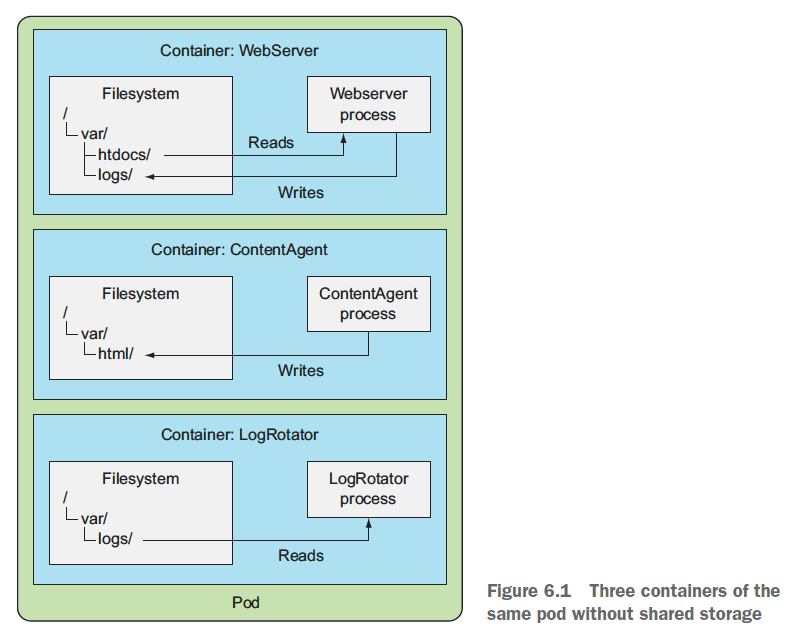
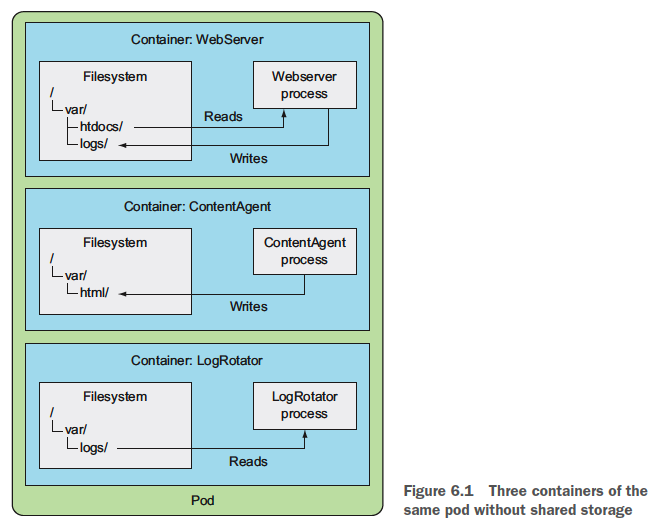
chapter 06 볼륨

diff --git a/chapter06.md b/chapter06.md
@@ -14,9 +14,274 @@
 
 - 각 컨테이너는 잘 정의된 단일 책임을 갖고 있지만 각각 컨테이너 자체만으로는 큰 쓸모가 없다.
 
-<img src="resources/images/6-1.png" width="797" height="638" alt="공유 스토리지가 없는 동일 파드의 컨테이너 세 개"/>
+<img src="resources/images/6-1.png" width="660" height="531" alt="공유 스토리지가 없는 동일 파드의 컨테이너 세 개"/>
 
 - 볼륨 두 개를 파드에 추가하고 세 개의 컨테이너 내부의 적절한 경로에 마운트 한다면 더 나은 시스템이 생성된다.
 
-<img src="resources/images/6-2.png" width="832" height="630" alt="공유 스토리지가 없는 동일 파드의 컨테이너 세 개"/>
+<img src="resources/images/6-2.png" width="691" height="528" alt="공유 스토리지가 없는 동일 파드의 컨테이너 세 개"/>
 
+- 쿠버네티스는 볼륨을 초기화하며 외부 소스의 내용을 채우거나 기존에 존재하는 디렉터리를 마운트 할 수 있다.
+- 볼륨을 채우거나 마운트하는 프로세스는 파드의 컨테이너가 시작되기 전에 수행한다.
+
+### 6.1.2 사용 가능한 볼륨 유형 소개
+
+- 사용 가능한 볼륨 유형 목록
+    - emptyDir: 일시적인 데이터를 저장하는 데 사용되는 간단한 빈 디렉터리
+    - hostPath: 워커 노드의 파일스스템을 파드의 디렉터리로 마운트하는 데 사용
+    - gitRepo: 깃 리포지터리의 콘텐츠를 체크아웃해 초기화한 볼륨
+    - nfs: NFS 공유를 파드에 마운트한다
+    - gcePersistentDisk(Google Compute Engine Persistent Disk), awsElasticBlockStore(Amazon Web Service Elastic Block Store Volume), azureDisk(Microsoft Azure Disk Volume): 클라우드 제공자 전용 스토리지
+    - cinder, cephfs, iscsi, flocker, glusterfs, quobyte, rbd, flexVolume, vsphereVolume,photonPersistentDisk, scaleIO: 다른 유형의 네트워크 스토리지
+    - configMap, secret, downwardAPI: 쿠버네티스 리소스나 클러스터 정보를 파드에 노출하는 데 사용되는 특별한 유형의 볼륨
+    - persistentVolumeClaim: 사전에 혹은 동적으로 프로비저닝된 퍼시스턴트 스토리지를 사용하는 방법
+- 특수한 유형의 볼륨(secret, downwardAPI, configMap)은 데이터를 저장하는데 사용되지 않고 쿠버네티스 메타데이터를 파드에 실행중인 애플리케이션에 노출하는 데 사용됨
+
+## 6.2 볼륨을 사용한 컨테이너 간 데이터 공유
+
+### 6.2.1 emptyDir 볼륨 사용
+
+- 빈 디렉터리로 시작
+- 파드에 실행중인 애플리케이션은 어떤 파일이든 볼륨에 쓸 수 있다.
+- 볼륨의 라이프사이클이 파드에 묶여 있으므로 파드가 삭제되면 볼륨의 콘텐츠는 사라진다.
+- 동일 파드에서 실행중인 컨테이너 간 파일을 공유할 때 유용하다.
+
+- (여기서 부터 예제)
+
+- emptyDir 은 파드를 호스팅하는 워크 노드의 실제 디스크에 생성되므로 노드 디스크가 어떤 유형인지에 따라 성능이 결정된다.
+- 메모리를 사용하는 tmpfs 파일시스템으로 생성하도록 하려면 아래와 같이 `emptyDir` 의 `medium` 을 `Memory` 로 지정한다.
+
+```yaml
+  volumes:
+  - name: html
+    emptyDir:
+      medium: Memory
+```
+
+### 6.2.2 깃 리퍼지터리를 볼륨으로 사용하기
+
+- 현재는 deprecated 됐다. (https://kubernetes.io/docs/concepts/storage/volumes/#gitrepo)
+- gitRepo 볼륨은 기본적으로 emptyDir 볼륨이며 파드가 시작되면 깃 리포지터리를 복제하고 특정 리비전을 체크아웃해 데이터로 채운다.
+
+<img src="resources/images/6-3.png" width="728" height="355" alt="gitRepo 볼륨은 시작 시점에 깃 리포지터리의 콘텐츠로 채워진 emptyDir 볼륨이다"/>
+
+- gitRepo 볼륨이 생성된 후에는 참조하는 리포지터리와 동기화하지 않는다.
+- 리플리케이션 컨트롤러가 파드를 관리하는 경우 파드를 삭제하면 새 파드가 생성되고 이 파드의 볼륨은 최신 커밋을 포함한다.
+
+- (여기서 부터 예제)
+
+- 사이드카 컨테이너 소개
+    - 깃 동기화 프로세스가 Nginx 웹 서버와 동일 컨테이너에서 실행되면 안되며 두 번째 컨테이너인 사이드카(sidecar) 컨테이너에서 실행돼야 한다.
+    - 사이드카 컨테이너는 파드의 주 컨테이너 동작을 보완한다.
+- 프라이빗 깃 리포지터리로 gitRepo 볼륨 사용하기
+    - 프라이빗 깃 리포지터리로 gitRepo 볼륨을 사용할 수 없기 때문에 프라이빗 깃 리포지터리를 사용하기 위해선 사이드카 컨테이너를 사용해야 한다.
+
+## 6.3 워커 노드 파일시스템의 파일 접근
+
+- 대부분의 파드는 호스트 노드를 인식하지 못하므로 노드의 파일시스템에 있는 어떤 파일에도 접근하면 안 된다.
+- 특정 시스템 레벨의 파드(보통 데몬셋으로 관리되는 것)는 노드의 파일을 읽거나 파일시스템을 통해 노드 디바이스를 접근하기 위해 노드의 파일 시스템을 사용한다.
+- 쿠버네티스는 hostPath 볼륨으로 가능하게 한다.
+
+### 6.3.1 hostPath 볼륨 소개
+
+- hostPath 볼륨은 노드 파일시스템의 특정 파일이나 디렉터리를 가리킨다.
+- 동일 노드에 실행 중인 파드가 hostPath 볼륨의 동일 경로를 사용 중이면 동일한 파일이 표시된다.
+
+<img src="resources/images/6-4.png" width="616" height="377" alt="gitRepo 볼륨은 시작 시점에 깃 리포지터리의 콘텐츠로 채워진 emptyDir 볼륨이다"/>
+
+- hostPath 볼륨은 파드가 종료되어도 콘텐츠는 삭제되지 않는다.
+- hostPath 볼륨은 파드가 어떤 노드에 스케줄링되느냐에 따라 민감하기 때문에 일반적인 파드에 사용하는 것은 좋은 생각이 아니다.
+
+### 6.3.2 hostPath 볼륨을 사용하는 시스템 파드 검사하기
+
+<img src="resources/images/6-3-2-1.png" width="527" height="194" alt="시스템 파드"/>
+
+```shell script
+$ kubectl describe po etcd-docker-desktop -n kube-system
+```
+
+<img src="resources/images/6-3-2-2.png" width="412" height="158" alt="etcd-docker-desktop"/>
+
+- 노드의 시스템 파일에 읽기/쓰기를 하는 경우에만 hostPath 볼륨을 사용한다.
+- 여러 파드에 걸쳐 데이터를 유지하기 위해서는 절대 사용하면 안된다.
+
+## 6.4 퍼시스턴스 스토리지 사용
+
+- 파드가 다른 노드로 재 스캐줄링된 경우에도 동일한 데이터를 사용해야 한다면 어떤 노드에서도 접근이 필요하기 때문에 NAS(Network-Attached Storage) 유형에 저장돼야 한다.
+
+### 6.4.1 GCE 퍼시스턴트 디스크를 파드 볼륨으로 사용하기
+
+<img src="resources/images/6-5.png" width="715" height="260" alt="외부 GCE 퍼시스턴트 디스크를 참조하는 볼륨을 마운트하고 MongoDB 를 실행하는 단일 컨테이너가 있는 파드"/>
+
+```shell script
+$ kubectl create -f mongodb-pod-hostpath.yaml
+```
+
+<img src="resources/images/6-4-1-1.png" width="841" height="181" alt="mongodb-pod-hostpath"/>
+
+<img src="resources/images/6-4-1-2.png" width="840" height="538" alt="mongodb-pod-hostpath"/>
+
+<img src="resources/images/6-4-1-3.png" width="464" height="134" alt="mongodb-pod-hostpath"/>
+
+<img src="resources/images/6-4-1-4.png" width="839" height="604" alt="mongodb-pod-hostpath"/>
+
+### 6.4.2 기반 퍼시스턴스 스토리지로 다른 유형의 볼륨 사용하기
+
+- 예제는 생략
+- 쿠버네티스가 지원하는 각 볼륨 유형별로 필요한 속성의 세부 정보를 보려면 쿠버네티스 API 레퍼런스의 API 정의를 확인하거나 `kubeclt explain` 을 통해 정보를 찾아봐야 한다.
+- 인프라스트럭처 관련 정보를 파드 정의에 포함하면 동일한 파드 정의를 다른 클러스터에서는 사용할 수 없다.
+- 볼륨을 이런 방식으로 사용하는 것이 파드에 퍼시스턴트 스토리지를 연결하는 최적의 방법이 아닌 이유
+
+## 6.5 기반 스토리지 기술과 파드 분리
+
+- NFS 기반 볼륨을 생성하려면 개발자는 NFS 익스포트가 위치하는 실제 서버를 알아야 한다.
+- 이는 애플리케이션과 개발자로부터 실제 인프라스트럭처를 숨긴다는 쿠버네티스의 기본 아이디어에 반한다.
+- 개발자가 애플리케이션을 위해 일정량의 퍼시스턴트 스토리지를 필요로 하면 쿠버네티스에 요청할 수 있어야 하고, 동일한 방식으로 파드 생성 시 CPU, 메모리와 다른 리소스를 요청할 수 있어야 한다.
+
+### 6.5.1 퍼시스턴트 볼륨과 퍼시스턴트 볼륨클레임 소개
+
+- 인프라스트럭처의 세부 사항을 처리하지 않고 애플리케이션이 쿠버네티스 클러스터에 스토리지를 요청할 수 있도록 하기 위해 새로 도입된 리소스
+
+<img src="resources/images/6-6.png" width="681" height="410" alt="클러스터 관리자가 퍼시스턴트 볼륨을 프로비저닝하면 파드는 퍼시스턴트 볼륨클레임을 통해 이를 사용한다"/>
+
+- 클러스터 관리자가 기반 스토리지를 설정하고 쿠버네티스 API 서버로 퍼시스턴트 볼륨 리소스를 생성해 쿠버네티스에 등록한다.
+- 퍼시스턴트 볼륨이 생성되면 관리자는 크기와 지원 가능한 접근 모드를 지정한다.
+- 클러스터 사용자가 파드에 퍼시스턴트 스토리지를 사용해야 하면 먼저 최소 크기와 필요한 접근 모드를 명시한 퍼시스턴트 볼륨클레임 매니페스트를 생성한다.
+- 그 다음 사용자는 퍼시스턴트 볼륨클레임 매니페스트를 쿠버네티스 API 서버에 게시하고 쿠버네티스는 적절한 퍼시스턴트 볼륨을 찾아 클레임에 볼륨을 바인딩한다.
+- 그 다음 퍼시스턴트 볼륨클레임은 파드 내부의 볼륨 중 하나로 사용될 수 있다.
+- 퍼시스턴트 볼륨클레임의 바인딩을 삭제하기 전까지 다른 사용자는 동일한 퍼시스턴트 볼륨을 사용할 수 없다.
+
+### 6.5.2 퍼시스턴트 볼륨 
+
+```yaml
+apiVersion: v1
+kind: PersistentVolume
+metadata:
+  name: mongodb-pv
+spec:
+  capacity: 
+    storage: 1Gi
+  accessModes:
+    - ReadWriteOnce
+    - ReadOnlyMany
+  persistentVolumeReclaimPolicy: Retain
+  hostPath:
+    path: /tmp/mongodb
+```
+
+```shell script
+$ kubectl create -f mongodb-pv-hostpath.yaml
+```
+
+- 퍼시스턴트 볼륨을 생성할때 관리자가 해야 하는일
+    - 쿠버네티스에게 용량이 얼마가 되는지 단일 노드나 동시에 다수 노드에 읽기나 쓰기가 가능한지 여부를 알려야 한다.
+    - 쿠버네티스에게 퍼시스턴트 볼륨이 해제되면 어떤 동작을 해야 할지 알려야 한다.
+    - 퍼시스턴트 볼륨을 지원하는 실제 스토리지의 유형, 위치, 그 밖의 속성 정보를 지정해야 한다.
+
+<img src="resources/images/6-5-1-1.png" width="753" height="56" alt="kubectl-get-pv"/>
+
+- 퍼시스턴트 볼륨은 특정 네임스페이스에 속하지 않는다.
+- 퍼시스턴트 볼륨은 노드와 같은 클러스터 수준 리소스다.
+
+<img src="resources/images/6-7.png" width="718" height="552" alt="퍼시스턴트 볼륨과 클러스터 노드는 파드나 퍼시스턴트 볼륨클레임과 달리 특정 네임스페이스에 속하지 않는다"/>
+
+### 6.5.3 퍼시스턴트 볼륨클레임 생성을 통한 퍼시스턴트 볼륨 요청
+
+```yaml
+apiVersion: v1
+kind: PersistentVolumeClaim
+metadata:
+  name: mongodb-pvc 
+spec:
+  resources:
+    requests:
+      storage: 1Gi
+  accessModes:
+  - ReadWriteOnce
+  storageClassName: ""
+```
+
+<img src="resources/images/6-5-3-1.png" width="447" height="36" alt="kubectl-create-pvc"/>
+
+- 퍼시스턴트 볼륨클레임이 생성되자마자 쿠버네티스는 적절한 퍼시스턴트 볼륨을 찾고 클레임에 바인딩한다.
+- 퍼시스턴트 볼륨 용량은 퍼시스턴트 볼륨클레임의 요청을 수용할만큼 충분히 커야 한다.
+- 볼륨 접근 모드는 클레임에서 요청한 접근 모드를 포함해야 한다.
+
+<img src="resources/images/6-5-3-2.png" width="573" height="52" alt="kubectl-create-pvc"/>
+
+- 접근 모드
+    - RWO(ReadWriteOnce): 단일 노드만이 읽기/쓰기용으로 볼륨을 마운트할 수 있다.
+    - ROX(ReadOnlyMany): 다수 노드가 읽기용으로 볼륨을 마운트할 수 있다.
+    - RWX(ReadWriteMany): 다수 노드가 일기/쓰기용으로 볼륨을 마운트할 수 있다.
+
+<img src="resources/images/6-5-3-3.png" width="811" height="54" alt="kubectl-create-pvc"/>
+
+- 퍼시스턴트 볼륨은 클러스터 수준의 리소스이므로 특정 네임스페이스에 생성할 수 없다.
+- 퍼시스턴트 볼륨클레임은 특정 네임스페이스에 생성해야만 한다. (번역 누락됨)
+- 퍼시스턴트 볼륨클레임은 동일한 네임스페이스에 있는 파드만 사용할 수 있다.
+
+### 6.5.4 파드에서 퍼시스턴트 볼륨클레임 사용하기
+
+- 볼륨을 해제할 때까지 다른 사용자는 동일한 볼륨에 클레임을 할 수 없다.
+
+```yaml
+apiVersion: v1
+kind: Pod
+metadata:
+  name: mongodb 
+spec:
+  containers:
+  - image: mongo
+    name: mongodb
+    volumeMounts:
+    - name: mongodb-data
+      mountPath: /data/db
+    ports:
+    - containerPort: 27017
+      protocol: TCP
+  volumes:
+  - name: mongodb-data
+    persistentVolumeClaim:
+      claimName: mongodb-pvc
+```
+
+<img src="resources/images/6-5-4-1.png" width="840" height="502" alt="mongodb-pod-pvc"/>
+
+### 6.5.5 퍼시스턴트 볼륨과 퍼시스턴트 볼륨클레임 사용의 장점 이해하기
+
+<img src="resources/images/6-8.png" width="710" height="625" alt="GCE 퍼시스턴트 디스크를 직접 사용하는 경우와 PVC PV 를 사용하는 경우"/>
+
+- 개발자는 기저에 사용된 실제 스토리지 기술을 알 필요가 없다.
+- 파드와 클레임 매니페스트는 인프라스트럭처와 관련된 어떤 것도 참조하지 않으므로 다른 쿠버네티스 클러스터에서도 사용할 수 있다.
+
+### 6.5.6 퍼시스턴트 볼륨 
+
+<img src="resources/images/6-5-6-1.png" width="826" height="241" alt="reuse-persistent-volume"/>
+
+- 이미 볼륨을 사용했기 때문에 데이터를 가지고 있으므로 클러스터 관리자가 볼륨을 완전히 비우지 않으면 새로운 클레임에 바인딩할 수 없다.
+- 클러스터 관리자가 볼륨을 비우지 않았다면 동일한 퍼시스턴트 볼륨을 사용하는 새 파드는 다른 네임스페이스에서 클레임과 파드가 생성됐다고 할지라도 이전 파드가 저장한 데이터를 읽을 수 있다.
+
+#### 퍼시스턴트 볼륨을 수동으로 다시 클레임하기
+
+- 쿠버네티스에 `persistentVolumeClaimPolicy` 를 `Retain` 으로 설정하면 퍼시스턴트 볼륨이 이런 동작을 할 수 있다.
+- 쿠버네티스가 클레임이 해제돼도 볼륨과 콘텐츠를 유지하도록 한다.
+- 퍼시스턴트 볼륨을 수동으로 재사용할 수 있는 유일한 방법은 퍼시스턴트 볼륨 리소스를 삭제하고 다시 생성하는 것이다.
+    - 기반 스토리지 파일을 삭제할 수도 있고 남겨들 수도 있다.
+
+#### 퍼시스턴트 볼륨을 자동으로 다시 클레임하기
+
+- 리클레임 정책: Recycle, Delete
+    - Recycle: 볼륨의 콘텐츠를 삭제하고 볼륨이 다시 클레임될 수 있도록 볼륨을 사용 가능하게 만든다. (Recycle 옵션은 현재 GCE 퍼시스턴트 디스크에서 사용할 수 없다)
+    - Delete: 기반 스토리지를 삭제한다.
+- 기존 퍼시스턴트 볼륨의 리클레임 정책을 변경할 수 있다.
+
+<img src="resources/images/6-9.png" width="804" height="377" alt="퍼시스턴트 볼륨, 퍼시스턴트 볼륨클레임과 이를 사용하는 파드의 수명"/>
+
+## 6.6 퍼시스턴트 볼륨의 동적 프로비저닝
+
+### 6.6.1 스토리지클래스 리소스를 통한 사용 가능한 스토리지 유형 정의하기
+
+### 6.6.2 퍼시스턴트 볼륨클레임에서 스토리지 클래스 요청하기
+
+### 6.6.3 스토리지 클래스를 지정하지 않은 동적 프로비저닝
+
+<img src="resources/images/6-10.png" width="808" height="490" alt="퍼스스턴트 볼륨 동적 프로비저닝의 전체 그림"/>
